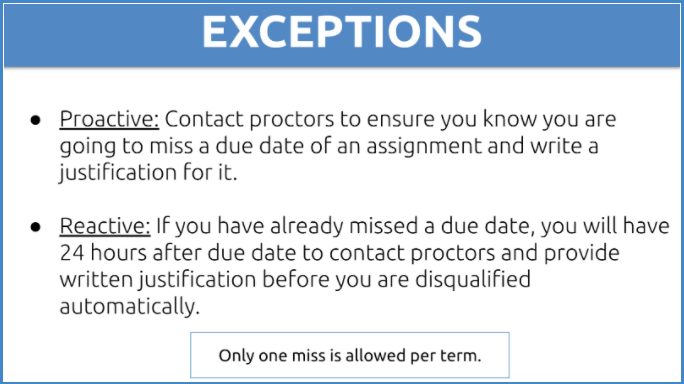
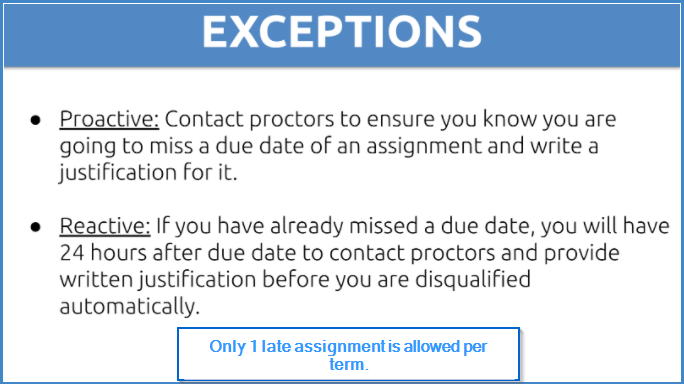
Add files via upload

Changed region(s): [[0.2456, 0.8438, 0.7675, 1.0]]

diff --git a/index.html b/index.html
@@ -32,26 +32,19 @@
 
                     <div class="sidebar_topic">
 
-                        <div class="sidebar_topic-heading2">
-                            <a class="mention-item" target="_blank"
-                                href="https://docs.google.com/spreadsheets/d/1cF70H4jss7ZnZD26mUI3ujs2jqkJlfDPcn7pS5hfiqU/edit?usp=sharing">Discord
-                                Hours</a>
-                        </div>
-
                         <div class="sidebar_topic-heading">
                             FAQ Categories
                         </div>
                         <ul class="sidebar_topic-list">
+                            <li class="list-item"><a class="cate-item discord-hours"
+                                    href="https://docs.google.com/spreadsheets/d/1cF70H4jss7ZnZD26mUI3ujs2jqkJlfDPcn7pS5hfiqU/edit?usp=sharing">Discord
+                                    Hours</a></li>
                             <li class="list-item"><a class="cate-item" href="#ARQ">Assignments Related Questions</a>
                             </li>
                             <li class="list-item"><a class="cate-item" href="#DRQ">Discord Related Questions</a></li>
                             <li class="list-item"><a class="cate-item" href="#GCRQ">GoogleClassroom Related
                                     Questions</a></li>
                             <li class="list-item"><a class="cate-item" href="#IRQ">Internship Related Questions</a></li>
-                            <li class="list-item"><a class="cate-item" href="#ORQ">Orientation Related Questions</a>
-                            </li>
-                            <li class="list-item"><a class="cate-item" href="#LIQ">LinkedIn Related Questions</a></li>
-                            <li class="list-item"><a class="cate-item" href="#CRQ">How to Contact</a></li>
                         </ul>
                     </div>
                 </div>
@@ -73,6 +66,9 @@
                             </div>
                             <div class="collapse navbar-collapse" id="myNavbar">
                                 <ul class="nav navbar-nav">
+                                    <li class="nav-item list-item"><a class="cate-item discord-hours"
+                                            href="https://docs.google.com/spreadsheets/d/1cF70H4jss7ZnZD26mUI3ujs2jqkJlfDPcn7pS5hfiqU/edit?usp=sharing">Discord
+                                            Hours</a></li>
                                     <li class="nav-item list-item"><a class="cate-item" href="#ARQ">Assignments Related
                                             Questions</a></li>
                                     <li class="nav-item list-item"><a class="cate-item" href="#DRQ">Discord Related
@@ -81,14 +77,8 @@
                                             Related Questions</a></li>
                                     <li class="nav-item list-item"><a class="cate-item" href="#IRQ">Internship Related
                                             Questions</a></li>
-                                    <li class="nav-item list-item"><a class="cate-item" href="#ORQ">Orientation Related
-                                            Questions</a></li>
-                                    <li class="nav-item list-item"><a class="cate-item" href="#LIQ">LinkedIn Related
-                                            Questions</a></li>
-                                    <li class="nav-item list-item"><a class="cate-item" href="#CRQ">How to Contact</a>
                                     </li>
                                 </ul>
-
                             </div>
                         </div>
                     </nav>
@@ -110,45 +100,44 @@
 
                 <section class="arq" id="ARQ">
                     <div class="section-heading">Assignments Related Questions</div>
+
                     <div class="faq">
-                        <div class="ques">What are the due dates of assignments?</div>
+                        <div class="ques">Due dates of assignments?</div>
                         <div class="ans">
-                            Due dates are visible in your local time zone in google classroom per assignment.
-                            Optionally, you can click on google calendar to see assignment due dates from the classroom
-                            view.
+                            <p>Assignments are due on Wednesday at 11:59 pm PST.</p>
+                            <p>Due dates are also visible in your local time zone in google classroom per assignment.
+                                Optionally, you can click on google calendar to see assignment due dates from the
+                                classroom
+                                view.</p>
                             <img class="img-fluid" src="./images/timings.png" alt="timings">
                         </div>
-
                     </div>
 
                     <div class="faq">
-                        <div class="ques">I tried to access the form for the Weekly Certificate of Completion, but I
-                            received the message, "Certificate of Completion Information is no longer accepting
-                            responses. Try contacting the owner of the form if you think this is a mistake." Can I still
-                            get a Certificate of Complete for the previous week's work?</div>
-                        <div class="ans">No. Requests for Certificates of Completion of the previous week's work are
-                            available for request until 11:59 pm PST the Monday of the following week. We recommend you
-                            continue with the current week's work and be sure to fill out the form for the following
-                            week. If you have extenuating circumstances and you require a certificate, you have the
-                            option of opening a ticket at <span class="underline"><a
-                                    href="https://virtuallytesting.on.spiceworks.com/portal" target="_blank">help
-                                    desk</a></span>.</div>
+                        <div class="ques">What is the Weekly Certificate of Completion? What if unable to receive it on
+                            time?</div>
+                        <div class="ans">It is UNGRADED and OPTIONAL assignment. It is for interns to claim a
+                            certificate for weekly efforts. You can share Certificates of Completion on social media. If
+                            you did not fill it and receive a Certificate of Completion before due date, there is no
+                            late processing for this. </div>
                     </div>
 
                     <div class="faq">
-                        <div class="ques">What If there is a school commitment that prevents me from completing
-                            assignments?</div>
+                        <div class="ques">1-day late submissions of due date?</div>
+                        <div class="ans">When turning in your assignment late, you should state a reason in the comments
+                            section for the submission in Google Classroom. All late assignments incur a 10% penalty.
+                            <strong>You will be allowed 1 late assignment per term. Repetitive late assignments will lead to disqualification from
+                                Internship.</strong></div>
+                    </div>
+
+                    <div class="faq">
+                        <div class="ques">Unable to submit VT assignments because school, person and any other reason?
+                        </div>
                         <div class="ans">According to VT internship policies, every intern must complete assignments on
                             time or will be disqualified. However, it is an at-will internship which means you can
                             gracefully leave by creating a <span class="underline"><a target="_blank"
                                     href="https://virtuallytesting.on.spiceworks.com/portal">help desk
-                                    ticket</a></span>. You can always apply for future internships.</div>
-                    </div>
-
-                    <div class="faq">
-                        <div class="ques">When will VMware hands-on task assignments will start?</div>
-                        <div class="ans">Stay tuned for weekly assignments as it publishes every week to only qualified
-                            interns who advance to next week.</div>
+                                    ticket</a></span>. You are welcome to apply for future internships.</div>
                     </div>
 
                     <div class="faq">
@@ -158,35 +147,20 @@
                     </div>
 
                     <div class="faq">
-                        <div class="ques">If my family member is testing positive for COVID-19, how can I stay in the
-                            internship program?</div>
-                        <div class="ans">
-                            <p>You can choose either a proactive or reactive exception option.</p>
-                            <p>According to VT internship policies, every intern must complete assignments on time or
-                                will be disqualified. However, it is an at-will internship which means you can
-                                gracefully leave by creating a <span class="underline"><a target="_blank"
-                                        href="https://virtuallytesting.on.spiceworks.com/portal">help desk
-                                        ticket</a></span>. You can always apply for future internships. </p>
-                            <img class="img-fluid" src="images/exce.png" alt="exception">
-                        </div>
+                        <div class="ques">How can I get an extension on an assignment?</div>
+                        <div class="ans">Refer to Q3 and Q4.</div>
                     </div>
                 </section>
+
                 <section class="drq" id="DRQ">
                     <div class="section-heading">Discord Related Questions</div>
 
                     <div class="faq">
-                        <div class="ques">What are rankings?</div>
+                        <div class="ques">What are rankings in bot commands channel?</div>
                         <div class="ans">
-                            <p>Rankings are just for fun to be used only in <span class="underline">bot-commands</span>
-                                channels.
-                        </div>
-                    </div>
-
-                    <div class="faq">
-                        <div class="ques">What is the bot commands channel for?</div>
-                        <div class="ans">
-                            <p><span class="underline">bot-commands</span> channel is to interact with bots. Typing bots
-                                commands in other channels is prohibited. </p>
+                            Rankings are just for fun to be used only in <span class="underline">bot-commands</span>
+                            channels. <span class="underline">bot-commands</span> channel is to interact with bots.
+                            Typing bots commands in other channels is prohibited.
                         </div>
                     </div>
 
@@ -200,37 +174,24 @@
                     </div>
 
                 </section>
+
                 <section class="gcrq" id="GCRQ">
                     <div class="section-heading">Google Classroom Related Questions</div>
 
                     <div class="faq">
-                        <div class="ques">Can I use my school email for signup to google classroom and communication?
-                        </div>
-                        <div class="ans">
-                            <p>GMail account is preferred and ideal for google classroom for smoother experience.</p>
-                        </div>
+                        <div class="ques">What does assignment being “returned” mean?</div>
+                        <div class="ans">After grading your assignment, proctors return it for you to have a
+                            confirmation that your assignment has been reviewed and graded.</div>
                     </div>
 
                     <div class="faq">
-                        <div class="ques">I received an email from google classroom about my assignment being
-                            “returned”. What does that mean?</div>
-                        <div class="ans">
-                            <p>After grading your assignment, proctors return it for you to have a confirmation that
-                                your assignment has been reviewed and graded.</p>
-                            <img class="img-fluid" src="images/gcr.png" alt="GoogleClassroomReturned">
-                        </div>
-                    </div>
-
-                    <div class="faq">
-                        <div class="ques">How do I get credit after I complete viewing the online video courses?</div>
-                        <div class="ans">
-                            <p>All assignments must be “<em>turned in</em>” within google assignment to receive credit
-                                for assignment. </p>
-                            <img class="img-fluid" src="images/gc.png" alt="GoogleClassroom">
-                        </div>
+                        <div class="ques">How to submit an assignment?</div>
+                        <div class="ans">Each assignment has a complete set of instructions describing how to turn in
+                            your assignment for grading.</div>
                     </div>
 
                 </section>
+
                 <section class="irq" id="IRQ">
                     <div class="section-heading">Internship Related Questions</div>
 
@@ -239,91 +200,39 @@
                             future internships?</div>
                         <div class="ans">
                             <p>It is an at-will internship which means you can gracefully leave by creating a <span
-                                    class="underline"><a href="https://virtuallytesting.on.spiceworks.com/portal">help
+                                    class="underline"><a target="_blank"
+                                        href="https://virtuallytesting.on.spiceworks.com/portal">help
                                         desk ticket</a></span>. You can always apply for future internships.</p>
                         </div>
                     </div>
 
                     <div class="faq">
-                        <div class="ques">What does the internship consist of?</div>
-                        <div class="ans">
-                            <p>This has been discussed in detail during orientation call. You can watch it here:</p>
-                            <p><span class="underline"><a target="_blank"
-                                        href="https://zoom.us/rec/share/rsyUqOW1bVjxKaTmDW7GEmO4t8A3lG4U4bt7XDwzgOEjR6b0WFquKo0z1V3b4lL3.EPvMT7amKu3evB35">Click
-                                        Here</a></span></p>
-                            <p><strong>Passcode:</strong> 0+mj8i3%</p>
-                        </div>
-                    </div>
-
-                </section>
-                <section class="orq" id="ORQ">
-                    <div class="section-heading">Orientation Related Questions</div>
-
-                    <div class="faq">
-                        <div class="ques">How can I watch the recording?</div>
-                        <div class="ans">
-                            <p><span class="underline"><a target="_blank"
-                                        href="https://zoom.us/rec/share/rsyUqOW1bVjxKaTmDW7GEmO4t8A3lG4U4bt7XDwzgOEjR6b0WFquKo0z1V3b4lL3.EPvMT7amKu3evB35">CLick
-                                        here</a></span></p>
-                            <p><strong>Passcode:</strong> 0+mj8i3%</p>
-                        </div>
-                    </div>
-
-                    <div class="faq">
-                        <div class="ques">Where can I view orientation slides?</div>
-                        <div class="ans">
-                            <p><span class="underline"><a target="_blank"
-                                        href="https://jan-interns-faqs.s3.us-east-2.amazonaws.com/orientation+slides.pdf">Click
-                                        here.</a></span>
-                        </div>
-                    </div>
-
-                </section>
-                <section class="liq" id="LIQ">
-                    <div class="section-heading">LinkedIn Related Questions</div>
-
-                    <div class="faq">
                         <div class="ques">Is It necessary to update the LinkedIn profile?</div>
-                        <div class="ans">
-                            <p>No, however it will expand your professional network and gain you visibility by
-                                recruiters or headhunters. Follow VT Linkedin guidelines posted here: <span
-                                    class="underline"><a target="_blank"
-                                        href="https://jan-interns-faqs.s3.us-east-2.amazonaws.com/LinkedIn+January+Batch+Guidelines.pdf">Click
-                                        Here</a></span></p>
-                        </div>
-                    </div>
-
-                </section>
-                <section class="crq" id="CRQ">
-                    <div class="section-heading">How to contact</div>
-
-                    <div class="faq">
-                        <div class="ques">How do I talk to Victor or the Intern Proctors?</div>
-                        <div class="ans">
-                            <p>Join LIVE weekly calls to have interactions with support staff and VT founders OR Submit
-                                a help desk ticket here at VT <span class="underline"><a target="_blank"
-                                        href="https://virtuallytesting.on.spiceworks.com/portal">help desk</a></span>.
-                            </p>
-                        </div>
+                        <div class="ans">No, however it will expand your professional network and gain you visibility by
+                            recruiters or headhunters. Follow VT Linkedin guidelines posted here: <span
+                                class="underline"><a target="_blank"
+                                    href="https://docs.google.com/spreadsheets/d/1cF70H4jss7ZnZD26mUI3ujs2jqkJlfDPcn7pS5hfiqU/edit?usp=sharing">Click
+                                    here</a></span></div>
                     </div>
 
                     <div class="faq">
-                        <div class="ques">How do I report issues/problems?</div>
+                        <div class="ques">How to get support during internship?</div>
                         <div class="ans">
-                            <p>Submit a help desk ticket here at VT <span class="underline"><a target="_blank"
-                                        href="https://virtuallytesting.on.spiceworks.com/portal">help desk</a></span>.
-                            </p>
+                            <ul>
+                                <li>Join discord support hours. For schedule <span class="underline"><a target="_blank"
+                                            href="https://docs.google.com/spreadsheets/d/1cF70H4jss7ZnZD26mUI3ujs2jqkJlfDPcn7pS5hfiqU/edit?usp=sharing">Click
+                                            here</a></span> </li>
+                                <li>Join weekly LIVE calls on Friday 9pm PST. Convert time for your local timezone.</li>
+                                <li>Create a help desk ticket <span class="underline"><a target="_blank"
+                                            href="https://virtuallytesting.on.spiceworks.com/portal">here</a></span>
+                                </li>
+                            </ul>
                         </div>
                     </div>
-
                 </section>
-
             </div>
         </div>
-
-
     </div>
-
 
     <script src="https://cdn.jsdelivr.net/npm/bootstrap@5.0.0-beta1/dist/js/bootstrap.bundle.min.js"
         integrity="sha384-ygbV9kiqUc6oa4msXn9868pTtWMgiQaeYH7/t7LECLbyPA2x65Kgf80OJFdroafW"

diff --git a/static/style.css b/static/style.css
@@ -187,7 +187,14 @@ section {
   font-size: 3.2rem;
   color: #417dbe;
   padding-bottom: 1.5rem;
-  background-color:rgb(255, 255, 255);
+  background-color: rgb(255, 255, 255);
   border-radius: 2rem;
   border: 2px black;
+}
+
+.discord-hours {
+  padding: 2.5px;
+  background-color: white;
+  border-radius: 2.5rem;
+  color: #417dbe;
 }
